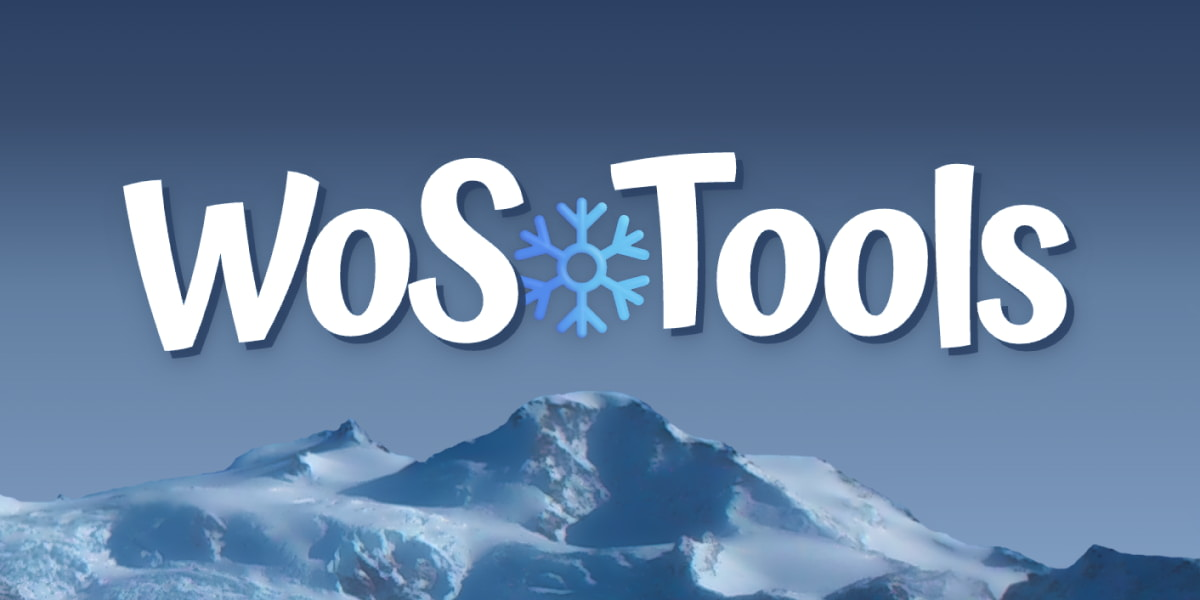
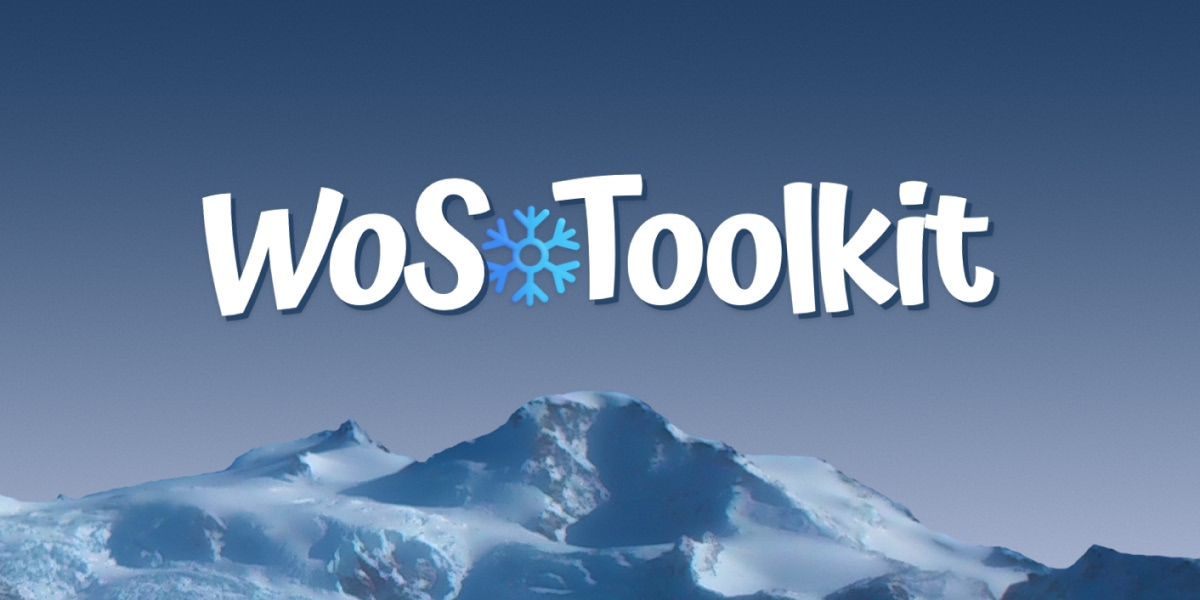
feat: ✨ rebrand from WoS Tools to WoS Toolkit

Changed region(s): [[0.0925, 0.24, 0.8942, 0.6], [0.7092, 0.78, 1.0, 0.96], [0.0, 0.78, 0.1542, 0.84]]

diff --git a/pages/logo.vue b/pages/logo.vue
@@ -1,0 +1,16 @@
+<script setup lang="ts">
+definePageMeta({
+  description: 'WoS Toolkit',
+  layout: false,
+  title: 'WoS Toolkit',
+})
+</script>
+
+<template>
+  <div class="absolute inset-0 flex items-center justify-center bg-gray-500">
+    <Logo
+      as="div"
+      class="text-[96px]"
+    />
+  </div>
+</template>

diff --git a/nuxt.config.ts b/nuxt.config.ts
@@ -42,7 +42,7 @@ export default defineNuxtConfig({
         { rel: 'manifest', href: '/site.webmanifest' },
       ],
       meta: [
-        { name: 'apple-mobile-web-app-title', content: 'WoS Tools' },
+        { name: 'apple-mobile-web-app-title', content: 'WoS Toolkit' },
       ],
     },
   },
@@ -50,14 +50,14 @@ export default defineNuxtConfig({
     'primeicons/primeicons.css',
   ],
   site: {
-    url: 'https://wostools.netlify.app',
-    name: 'WoS Tools❄️',
+    url: 'https://wostoolkit.netlify.app',
+    name: 'WoS Toolkit❄️',
     defaultLocale: 'en',
     currentLocale: 'en',
   },
   runtimeConfig: {
     public: {
-      storagePrefix: 'wos-tools_',
+      storagePrefix: 'wos-toolkit_',
     },
   },
   watch: ['primevue.config.ts'],
@@ -115,7 +115,7 @@ export default defineNuxtConfig({
     },
   },
   piniaPluginPersistedstate: {
-    key: 'wos-tools_%id',
+    key: 'wos-toolkit_%id',
     storage: 'localStorage',
   },
   primevue,

diff --git a/components/Logo.vue b/components/Logo.vue
@@ -29,7 +29,8 @@ const classes = computed(() => twMerge(baseClasses, attributes.class as string))
       class="-z-10 translate-x-[-0.1em]"
       size="0.7em"
       name="fluent-emoji:snowflake"
+      mode="svg"
     />
-    <span class="translate-x-[-0.3em]">Tools</span>
+    <span class="translate-x-[-0.3em]">Toolkit</span>
   </component>
 </template>

diff --git a/README.md b/README.md
@@ -1,13 +1,13 @@
-# WoS<img src="./public/favicon-96x96.png" width="32" height="32" alt="WoS Tools favicon" valign="top" />Tools
+# WoS<img src="./public/favicon-96x96.png" width="32" height="32" alt="WoS Toolkit favicon" valign="top" />Toolkit
 
-[![Netlify Status](https://api.netlify.com/api/v1/badges/6f85effa-aabb-4edf-9123-07bb31a5b916/deploy-status)](https://app.netlify.com/sites/wostools/deploys)
-![GitHub License](https://img.shields.io/github/license/deepfriedmind/wos-tools)
+[![Netlify Status](https://api.netlify.com/api/v1/badges/6f85effa-aabb-4edf-9123-07bb31a5b916/deploy-status)](https://app.netlify.com/sites/wostoolkit/deploys)
+![GitHub License](https://img.shields.io/github/license/deepfriedmind/wos-toolkit)
 [![code style](https://antfu.me/badge-code-style.svg)](https://github.com/antfu/eslint-config)
 
 A website with a collection of tools for the game Whiteout Survival.  
 Built with Nuxt 3 (Vue 3/TypeScript), PrimeVue, and Tailwind CSS.
 
-![Wos Tools](public/og-image.jpg)
+![WoS Toolkit](public/og-image.jpg)
 
 ## Setup
 